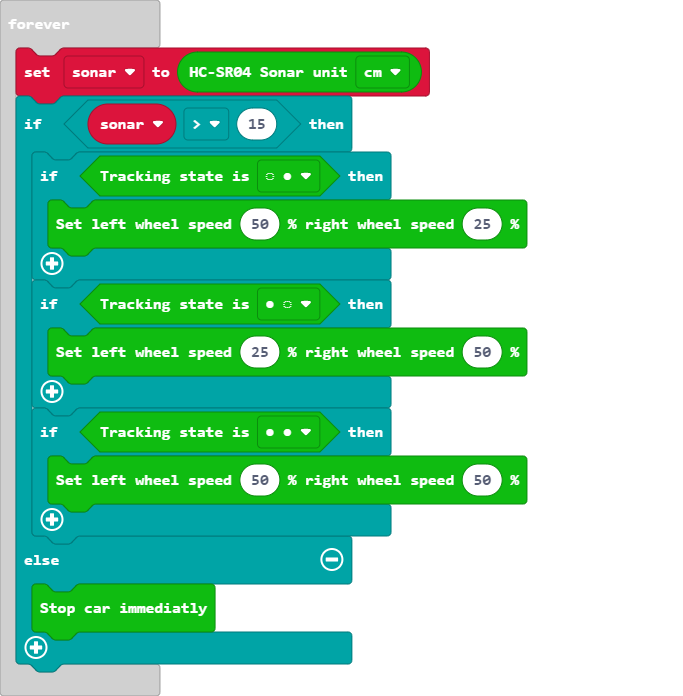
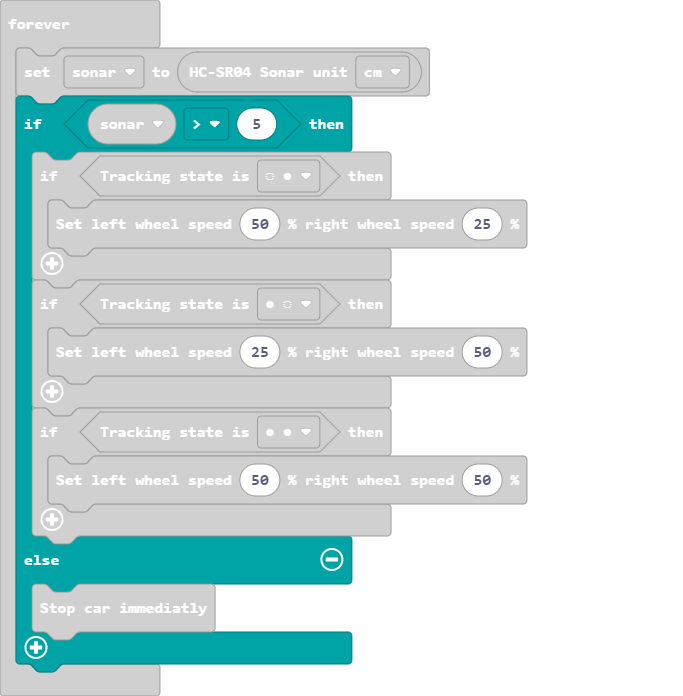
Update main.blocks, main.ts

diff --git a/main.ts b/main.ts
@@ -8,7 +8,7 @@ basic.showLeds(`
     `)
 basic.forever(function () {
     sonar = cuteBot.ultrasonic(cuteBot.SonarUnit.Centimeters)
-    if (sonar > 5 && sonar < 15) {
+    if (sonar > 5) {
         if (cuteBot.tracking(cuteBot.TrackingState.L_unline_R_line)) {
             cuteBot.motors(50, 25)
         }
